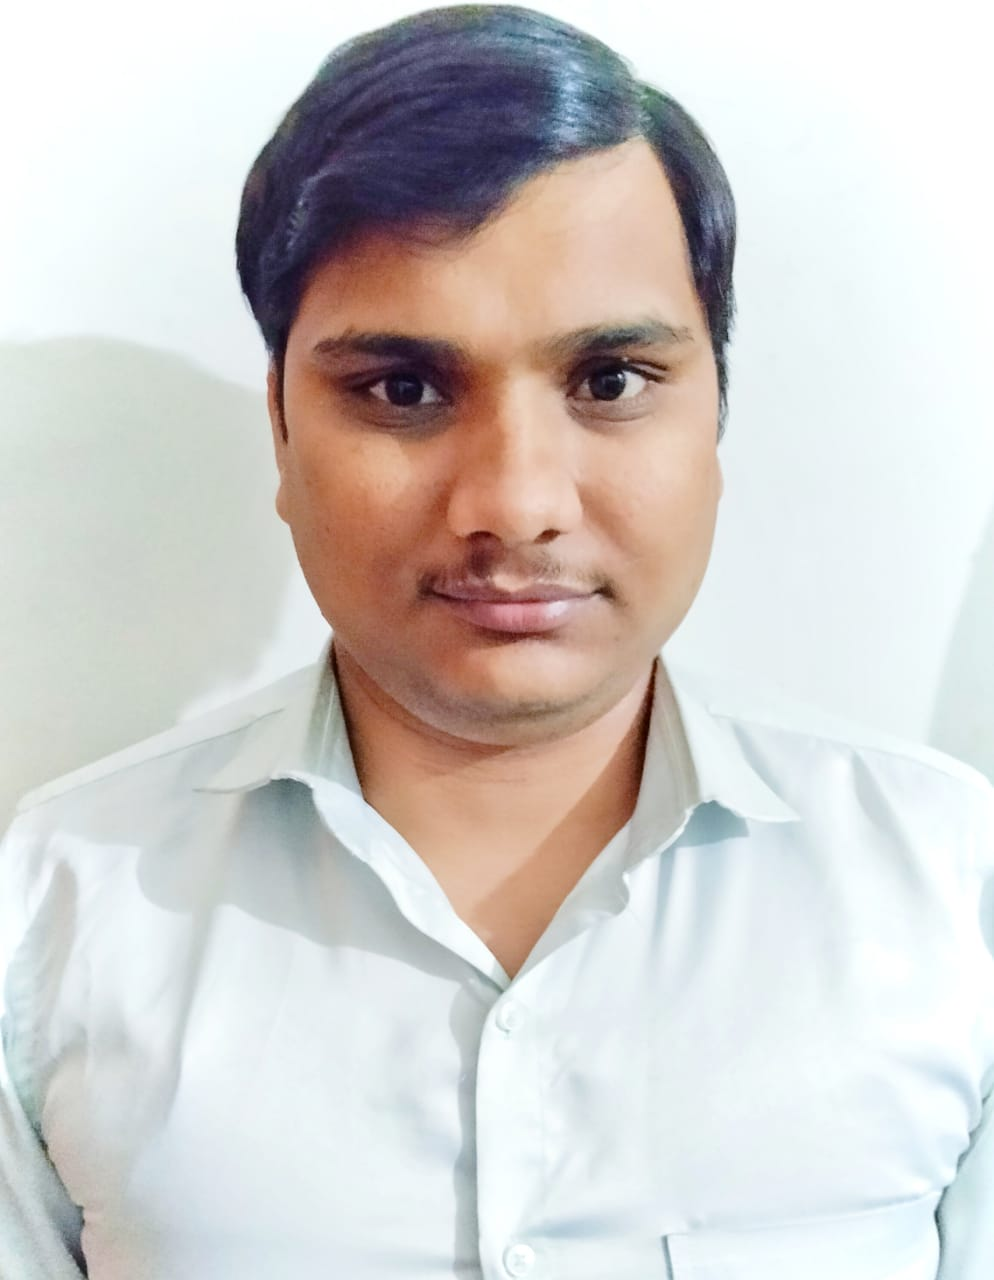
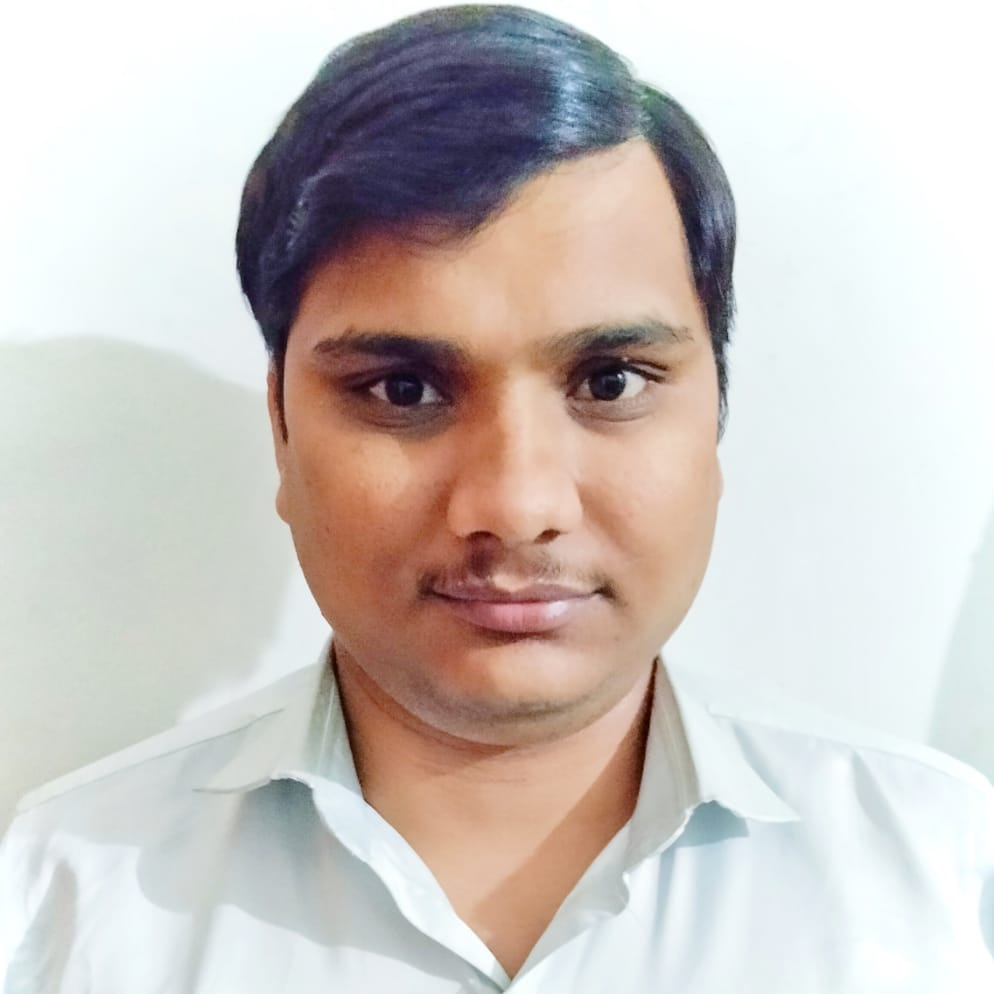
commit

diff --git a/index.html b/index.html
@@ -681,7 +681,7 @@ and equipments to serve you promptly.</p>
 
                 <div class="col-lg-4 col-md-4 col-sm-12 col-xs-12 wow fadeIn">
                     <div class="widget clearfix">
-                        <img src="images/members/amit.png" alt="" class="img-responsive img-rounded">
+                        <img src="images/members/amitvish.jpeg" alt="" class="img-responsive img-rounded">
                         <div class="widget-title">
                             <h3>Mr.Amit Kumar</h3>
                             <small>Accounts</small>
@@ -739,6 +739,24 @@ and equipments to serve you promptly.</p>
                         </div>
                     </div><!--widget -->
                 </div><!-- end col -->
+                <div class="col-lg-4 col-md-4 col-sm-12 col-xs-12 wow fadeIn" data-wow-duration="1s" data-wow-delay="0.2s" style="visibility: visible; animation-duration: 1s; animation-delay: 0.2s; animation-name: fadeIn;">
+                    <div class="widget clearfix">
+                        <img src="images/members/vinay.jpg" alt="" class="img-responsive img-rounded">
+                        <div class="widget-title">
+                            <h3>Mr. Vinay Kumar</h3>
+                            <small>Co-Ordinator</small>
+                        </div>
+                        <!-- end title -->
+                        <p>Hello guys, I am Vinay from Lucknow. I am Co-Ordinator at Dochealth Care.</p>
+
+                        <div class="footer-social">
+                            <a href="#" class="btn grd1"><i class="fa fa-facebook"></i></a>
+                            <a href="#" class="btn grd1"><i class="fa fa-github"></i></a>
+                            <a href="#" class="btn grd1"><i class="fa fa-twitter"></i></a>
+                            <a href="#" class="btn grd1"><i class="fa fa-linkedin"></i></a>
+                        </div>
+                    </div><!--widget -->
+                </div>
 
                 <div class="col-lg-4 col-md-4 col-sm-12 col-xs-12 wow fadeIn">
                     <div class="widget clearfix">
@@ -760,13 +778,13 @@ and equipments to serve you promptly.</p>
                 </div><!-- end col -->
                 <div class="col-lg-4 col-md-4 col-sm-12 col-xs-12 wow fadeIn" data-wow-duration="1s" data-wow-delay="0.2s" style="visibility: visible; animation-duration: 1s; animation-delay: 0.2s; animation-name: fadeIn;">
                     <div class="widget clearfix">
-                        <img src="images/members/vinay.jpg" alt="" class="img-responsive img-rounded">
+                        <img src="images/members/amitsharma.jpeg" alt="" class="img-responsive img-rounded">
                         <div class="widget-title">
-                            <h3>Mr. Vinay Kumar</h3>
+                            <h3>Mr. Amit Sharma</h3>
                             <small>Marketing Head</small>
                         </div>
                         <!-- end title -->
-                        <p>Hello guys, I am Vinay from Lucknow. I am Marketing head at Dochealth Care.</p>
+                        <p>Hello guys, I am Amit Sharma from Lucknow. I am Marketing head at Dochealth Care.</p>
 
                         <div class="footer-social">
                             <a href="#" class="btn grd1"><i class="fa fa-facebook"></i></a>
